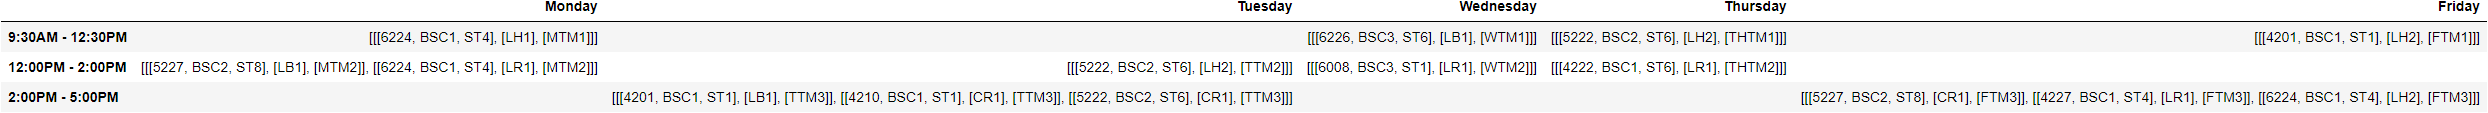
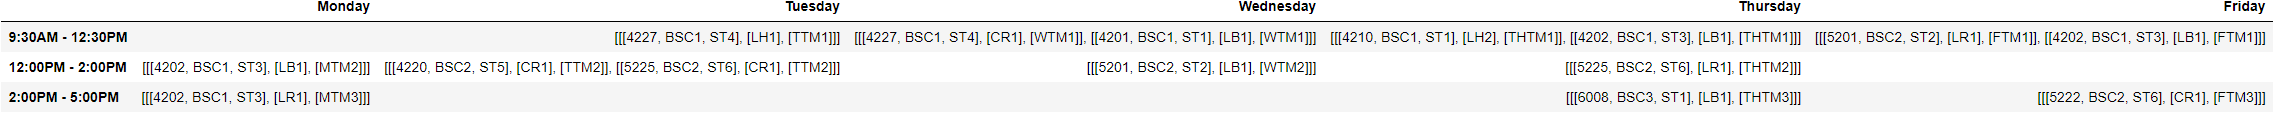
GUI can display output as image

diff --git a/main.py b/main.py
@@ -1,14 +1,26 @@
+import io
+import logging
+import os
+
 import itertools
 import random
+
+from PIL import Image
 import PySimpleGUI as sg
+import threading
+import concurrent.futures
+import subprocess
 
 import Visualizer
 import timetable
 
 tL = timetable.Timetable()
 
-layout = [[sg.Text("Hello from PySimpleGUI")], [sg.Button("OK")]]
-window = sg.Window("Computer Science: timetable_generator", layout, size=(490, 350), element_justification='c')
+layout = [[sg.Text("BSc Computer Science timetable generator")],
+          [sg.Button("Generate course timetable")],
+          [sg.Button("View generated timetable")]]
+
+window = sg.Window("Computer Science: timetable_generator", layout, size=(490, 550), element_justification='c')
 
 while True:
 
@@ -189,20 +201,32 @@ while True:
 
 
     def main():
+
         ga = GeneticAlgorithm()
         ga.initiate_Populations()
 
-
+    # ----------------------------- EVENT LOOP -----------------------------------
     while True:
-        try:
-            main()
 
-        except IndexError:
-            print("Re-Checking")
-            continue
+        event, values = window.read()
+        if event == 'Exit' or event == sg.WIN_CLOSED:
+            break
 
-    if event == "OK" or event == sg.WIN_CLOSED:
-        break
+        elif event == "Generate course timetable":
+            while True:
+                try:
+                    # main()
+                    threading.Thread(target=main(), args=(window,), daemon=True).start()
+                except IndexError:
+                    print("Re-Checking")
+                    continue
 
-window.close()
+        elif event == 'View generated timetable':
+            layout = [
+                [sg.Image(filename=r"output/BSC Computer Science.png")],
+                [sg.Button("Exit")]
+            ]
 
+            window = sg.Window("Image Viewer", layout)
+
+    window.close()

diff --git a/timetable.py b/timetable.py
@@ -16,7 +16,6 @@ class Timetable(object):
         self.clashes = 1
 
         self.fitness_Score = None
-        
         self.number_of_classes = len(mD.get_module_Code)
 
     def create_Sessions(self):

diff --git a/test.py b/test.py
@@ -15,7 +15,6 @@ class Course:
         return hash(self.module_ID)
 
 
-
 def main():
     crs = Course()
     print(crs.__hash__())

diff --git a/README.md b/README.md
@@ -2,3 +2,5 @@
 
 - Project I did for my Final Year in BSc Computer Science
 - Using Genetic Algorithm (Evolutionary Algorithm)
+- BSc in Computer Science course timetabling only
+- Doesn't include soft constraints
